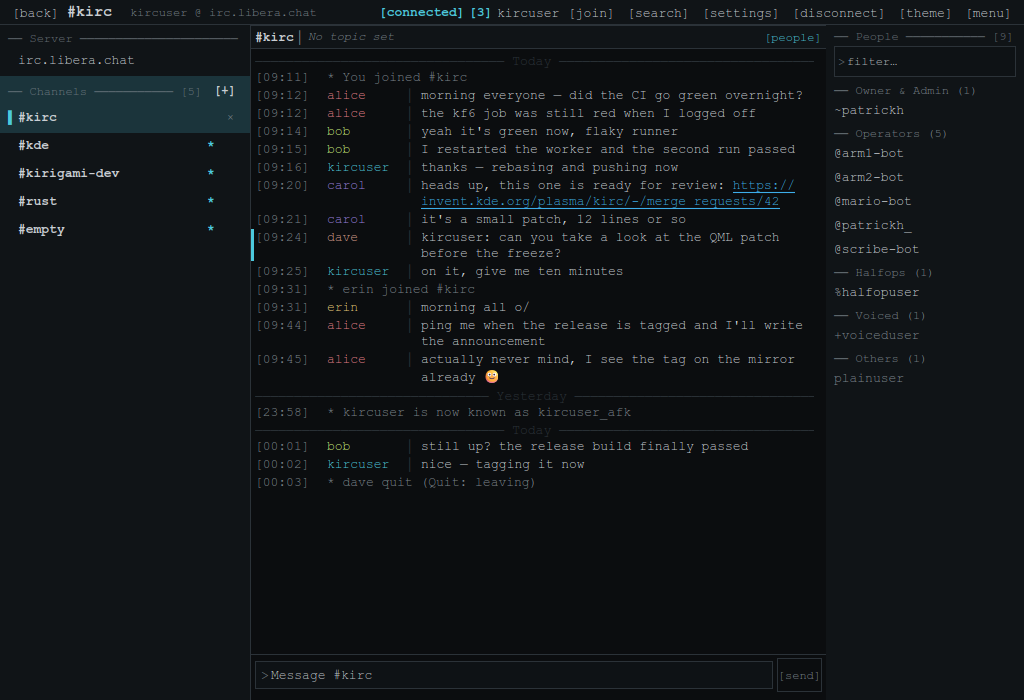
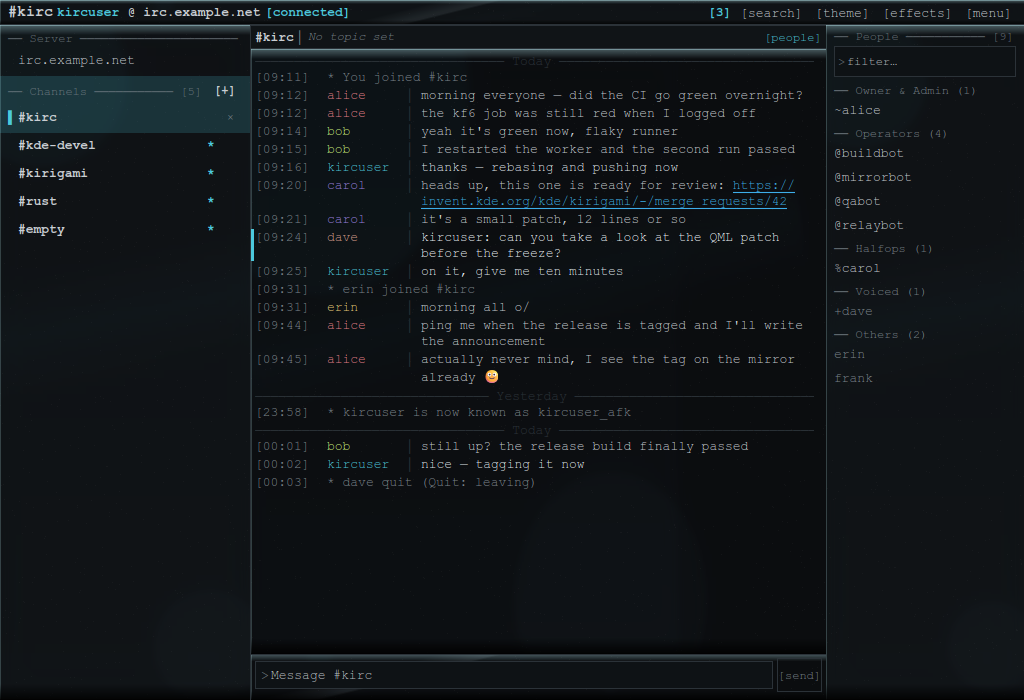
Refresh README screenshots and correct stale claims
Screenshots re-captured from the real app and the QML harness, all with a
fictional sample cast (no personal nick, network, or machine names):

- chat and light views now show the neutral cast (~alice, @buildbot,
  %carol, +dave, erin, frank) instead of the maintainer's own nicks
- new theme-menu shot covering all fourteen built-in palettes
- new CRT-effects shot covering the 1.0 effects system

Text corrections found while reviewing the README against the tree:

- themes: five palettes -> fourteen (bbs, c64, vt, ega, synthwave,
  ai-slop, crt, paper, gruvbox were missing)
- effects system documented (glass and CRT families, global prefs)
- capability list: MONITOR/SETNAME/MARKREAD are commands, not negotiated
- message grouping was removed; only day boundaries and row flags remain
- requirements: Qt 6.6+ w/ DBus + QmlImportScanner, CMake 3.24+, kf6-qqc2 style
- rpmbuild -ba (produces the source RPM the release workflow publishes)
- SASL password is memory-only; only NickServ/server secrets use KWallet
- /away with no reason clears away status; duplicate /ctcp row removed
- architecture and test-suite descriptions brought up to date

diff --git a/README.md b/README.md
@@ -22,9 +22,10 @@ avatars, no rounded cards.
 
 ## Features
 
-**IRCv3** — requested and negotiated at connect: `server-time`, `message-tags`,
-`account-tag`, `extended-join`, `batch`, `echo-message`, `chathistory`, `sasl`, plus
-`MONITOR`, `SETNAME` and `draft/markread` where the network offers them. SASL supports
+**IRCv3** — negotiated at connect where the network offers them: `server-time`,
+`message-tags`, `account-tag`, `extended-join`, `batch`, `echo-message` and
+`chathistory`, plus `sasl` when SASL credentials are configured. `MONITOR`, `SETNAME` and
+`MARKREAD` are used as commands rather than capability-negotiated. SASL supports
 **PLAIN, SCRAM-SHA-256 and EXTERNAL**; the mechanism is selectable (default: negotiate
 SCRAM-SHA-256 when advertised, otherwise PLAIN).
 
@@ -59,24 +60,39 @@ attempt shown in the header. Outbound chat is split at UTF-8 boundaries to stay 
 Fixed time gutter, aligned nick column, hanging indent on wrapped lines, muted `*` event
 rows, day rules, and failures in a warning colour with a `!` marker instead of `*`.
 Nicknames are coloured deterministically from a hash, and highlight lines get an accent
-bar. Message grouping and day boundaries are computed in the model, so a row costs the
-same whether the buffer holds ten lines or ten thousand.
+bar. Day boundaries and the event/error flags on a row are computed in the model, so a
+row costs the same whether the buffer holds ten lines or ten thousand. There is no
+message grouping: every row is its own line.
 
 Unread counts are tracked per channel/query, so opening one buffer does not clear or mark
 unrelated conversations. Transcripts are capped at 20,000 rows per buffer, history batches
 are prepended without resetting the visible model, and bounded Rust-to-Qt delivery prevents
 a traffic flood from growing the GUI event queue without limit.
 
-**Themes** — five built-in monospace palettes: `tui` (default), `phosphor`, `amber`,
-`ice`, and `breeze` (which follows your Plasma colour scheme). Font family and size are
-adjustable.
+**Themes** — fourteen built-in monospace palettes: `tui` (default), `phosphor`, `amber`,
+`ice`, `breeze` (which follows your Plasma colour scheme), `bbs`, `c64`, `vt`, `ega`,
+`synthwave`, `ai-slop`, `crt`, `paper` (light) and `gruvbox`. Font family and size are
+adjustable; the theme menu is the `[theme]` control in the header.
+
+![Theme menu](docs/screenshot-themes.png)
 
 ![Light theme](docs/screenshot-light.png)
 
+**Effects** — two families under one `[effects]` control in the header, and the same
+settings in Settings › Effects. The *glass* family surfaces each pane: frost (a static
+blur of the pane's own underlay, never of the scrolling log), a themed tint, a diagonal
+sheen, deterministic grain and lit edges. The *CRT* family overlays the whole window:
+scanlines, vignette, grain, a hum bar and a stepped flicker, each with its own toggle and
+intensity. Both are global display settings — a theme cannot change them — and with every
+effect off the chrome is pixel-identical to a build with no effects at all. Frosting is
+in-app only: kIRC blurs its own static underlays, never the desktop behind the window.
+
+![CRT effects](docs/screenshot-effects.png)
+
 **Settings** — a two-pane terminal surface with live search: identity (nickname, NickServ
 account/password, SASL user and mechanism), connection (server password, autojoin list,
-on-join history limit, reconnect policy, default part/quit reason), appearance, and
-notification toggles.
+on-join history limit, reconnect policy, default part/quit reason), appearance, effects,
+notifications and about.
 
 ![Settings](docs/screenshot-settings.png)
 
@@ -86,11 +102,11 @@ with an unread badge, quick connect/disconnect and hide-to-tray.
 
 ## Requirements
 
-- Qt 6 (Core, Gui, Widgets, Qml, Quick, QuickControls2)
+- Qt 6.6+ (Core, Gui, Widgets, DBus, Qml, Quick, QuickControls2, QmlImportScanner)
 - KDE Frameworks 6: Kirigami, Config, Notifications, StatusNotifierItem, Wallet
-- Rust (edition 2021 toolchain) and Cargo
-- CMake 3.21+ and a C++17 compiler
-- `qqc2-desktop-style` at runtime (Kirigami uses it for the native widget style)
+- Rust (edition 2021; the engine declares MSRV 1.75) and Cargo
+- CMake 3.24+ and a C++17 compiler
+- `kf6-qqc2-desktop-style` at runtime (the app selects the `org.kde.desktop` style)
 
 On Fedora the build dependencies are:
 
@@ -133,7 +149,7 @@ sudo cmake --install build --prefix /usr
 An RPM spec is provided in `packaging/` for Fedora:
 
 ```sh
-rpmbuild -bb packaging/kirc.spec
+rpmbuild -ba packaging/kirc.spec   # binary RPM and source RPM
 ```
 
 Pushing a version tag (`git tag v1.0 && git push origin v1.0`) builds and publishes
@@ -145,8 +161,9 @@ normalizes to `1.0.0`).
 ## Configuration
 
 Preferences live in `~/.config/kIRC/kirc.conf`. **Secrets are never written there** — the
-NickServ, SASL and server passwords are kept in KWallet (folder `kIRC`), or in memory for
-the session only if the wallet is unavailable or locked.
+NickServ and server passwords are kept in KWallet (folder `kIRC`), or in memory for the
+session only if the wallet is unavailable or locked. The SASL password is never persisted
+at all: it is held in memory for the session.
 
 The kIRC theme id is versioned: on upgrade, configs holding a retired stock theme id are
 moved to the current default once, and a theme you picked yourself is left alone.
@@ -192,7 +209,7 @@ Everything is available from the composer; the server console accepts slash comm
 |---|---|
 | `/nick <new nick>` | change your nickname |
 | `/setname <real name>` | change your real name (IRCv3 SETNAME) |
-| `/away [reason]` / `/back` | set or clear away status |
+| `/away <reason>` / `/back` | set away with a reason; a bare `/away` or `/back` clears it |
 | `/whois [server] <nick>` | user information |
 | `/whowas <nick> [count]` | past user information |
 | `/who [channel\|mask]` | list users |
@@ -200,7 +217,6 @@ Everything is available from the composer; the server console accepts slash comm
 | `/oper <name> <password>` | become an IRC operator |
 | `/motd` `/time [server]` `/ping [target]` | server queries |
 | `/version [nick]` | no nick: the server's VERSION; with a nick: send that client a CTCP VERSION query |
-| `/ctcp <target> <message>` | send a CTCP query (e.g. `/ctcp alice VERSION`); alias for both of the above |
 | `/quit [reason]` | disconnect from the server |
 
 ### IRCv3 and client
@@ -226,7 +242,9 @@ rust/core/        protocol engine — no Qt: parser, session state machine, CAP,
 rust/src/         CXX-Qt bridge: IrcBridge (connection + invokables) and
                   MessageListModel (QAbstractListModel). Rust owns IRC state.
 rust/qml/         Kirigami UI: main.qml, ChatPage, MessageDelegate, SettingsPage,
-                  ConnectPage, ThemeEngine + Theme.js + themes/*.json.
+                  ConnectPage, ThemeEngine + Theme.js + themes/*.json, and the
+                  effects layer: GlassSurface.qml (per-pane frost/sheen/edges)
+                  and ScanlineOverlay.qml (the whole-window CRT stack).
 cpp/              thin C++ shell: KConfig, KWallet, KNotifications, tray.
 packaging/        RPM spec, desktop entry, AppStream metainfo, hicolor icons.
 ```
@@ -243,8 +261,11 @@ cd qml-tests && ./run.sh                                    # UI smoke + command
 cd qml-tests && ./perf.sh                                   # append path and switch cost
 ```
 
-The QML suites run headless against test doubles for the bridge objects, and assert on
-what the UI would send — including every slash command's wire output.
+The QML suites run headless against test doubles for the bridge objects: a smoke flow, the
+slash-command contract (each command's wire line, `/help` output, malformed-argument
+rejection, tab completion), the autoscroll contract, and the glass-surfacing contract.
+Two further stages need no QML runtime — the theme-token completeness check and the C++
+half of the glass settings round-trip through a real `kirc.conf`.
 
 ## License
 
